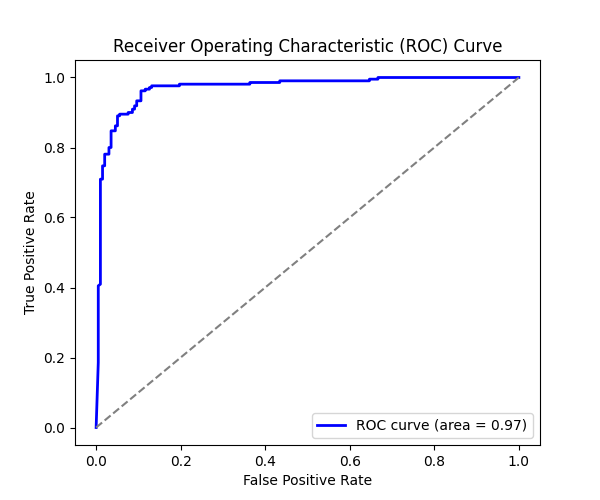
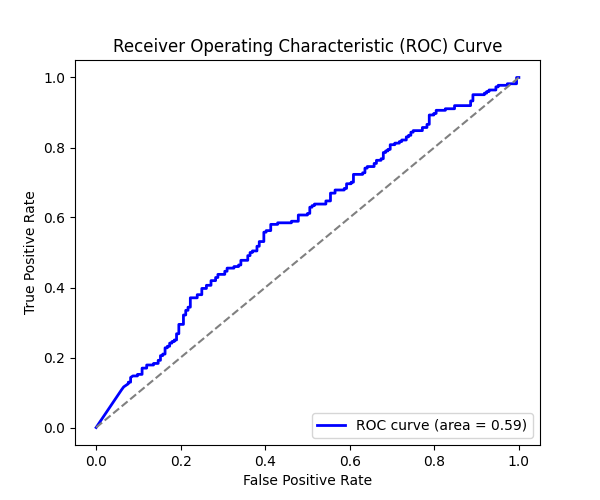
Correct surevaluation problem

diff --git a/app/src/data_loader.py b/app/src/data_loader.py
@@ -4,12 +4,15 @@ from tensorflow.keras.utils import image_dataset_from_directory
 
 
 def load_dataset(dataset_path, img_size=(600, 600), batch_size=32):
+    # Define seed
+    # SEED = np.random.randint(0, 10000)
+    SEED = 142
     # charge the dataset en divided it in en train/test set
     train_dataset = image_dataset_from_directory(
         dataset_path,
         validation_split=0.2,
         subset="training",
-        seed=123,
+        seed=SEED,
         image_size=img_size,
         batch_size=batch_size
     )
@@ -17,7 +20,7 @@ def load_dataset(dataset_path, img_size=(600, 600), batch_size=32):
         dataset_path,
         validation_split=0.2,
         subset="validation",
-        seed= np.random.randint(0, 10000),
+        seed= SEED,
         image_size=img_size,
         batch_size=batch_size
     )
